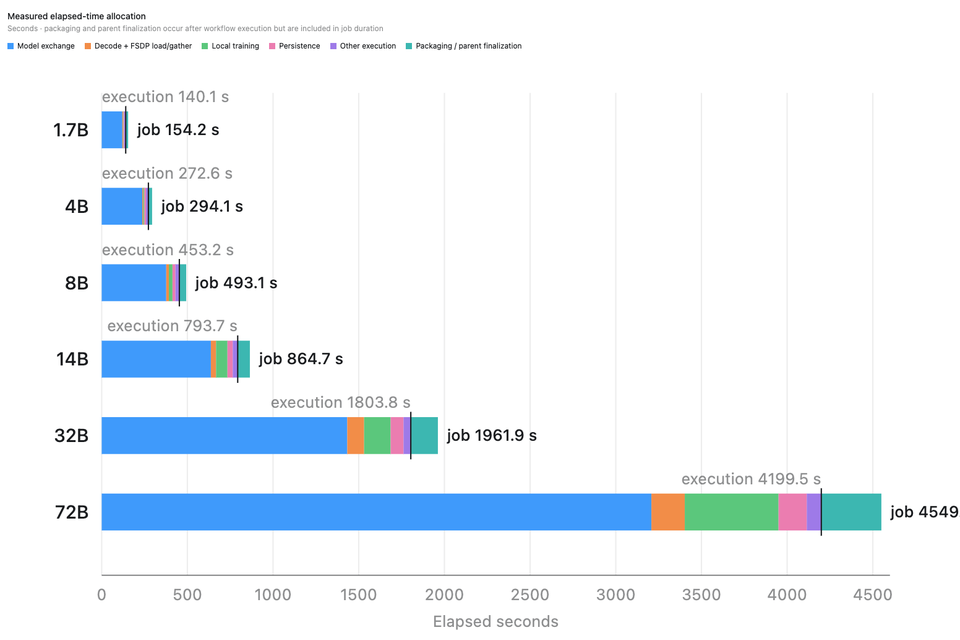
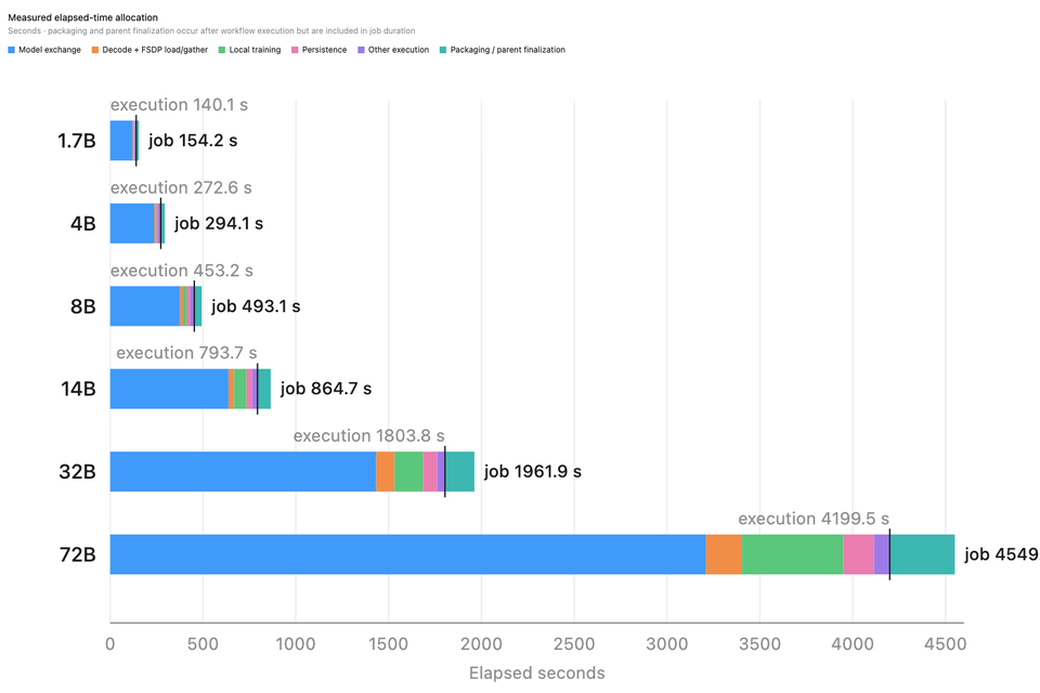
Make the left (elapsed time) benchmark chart slightly larger than the right
Per feedback, resized the underlying PNGs (not just the display width/height option, per the earlier GitHub-strips-style lesson) to 1040x693 (elapsed time) and 880x587 (server memory), both keeping the same ~1.5:1 aspect ratio, and adjusted the list-table column split and display size to match.

diff --git a/docs/release_notes/flare_290.rst b/docs/release_notes/flare_290.rst
@@ -180,16 +180,16 @@ for federated LLM training at scales up to 72 billion parameters. See
 operational guidance.
 
 .. list-table::
-   :widths: 50 50
+   :widths: 55 45
 
    * - .. image:: ../resources/flare_290_72b_training_elapsed_time.png
-          :width: 420px
-          :height: 280px
+          :width: 460px
+          :height: 307px
 
        Elapsed time, 1.7B-72B (measured, 2 training rounds)
      - .. image:: ../resources/flare_290_72b_training_server_memory.png
-          :width: 420px
-          :height: 280px
+          :width: 390px
+          :height: 260px
 
        FedAvg server peak memory, 1.7B-72B (measured, 2 training rounds)
 
